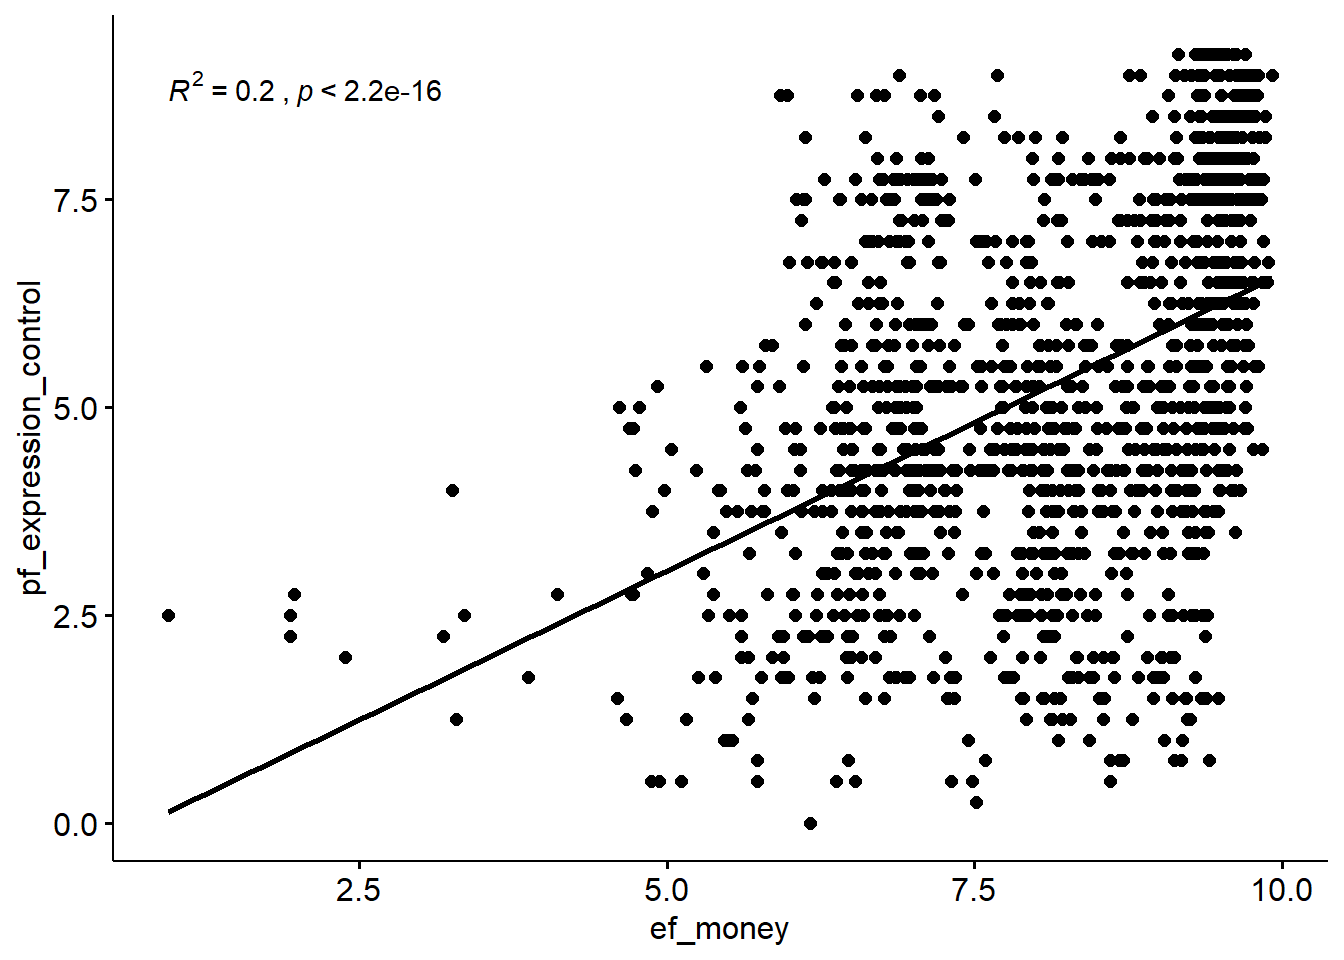
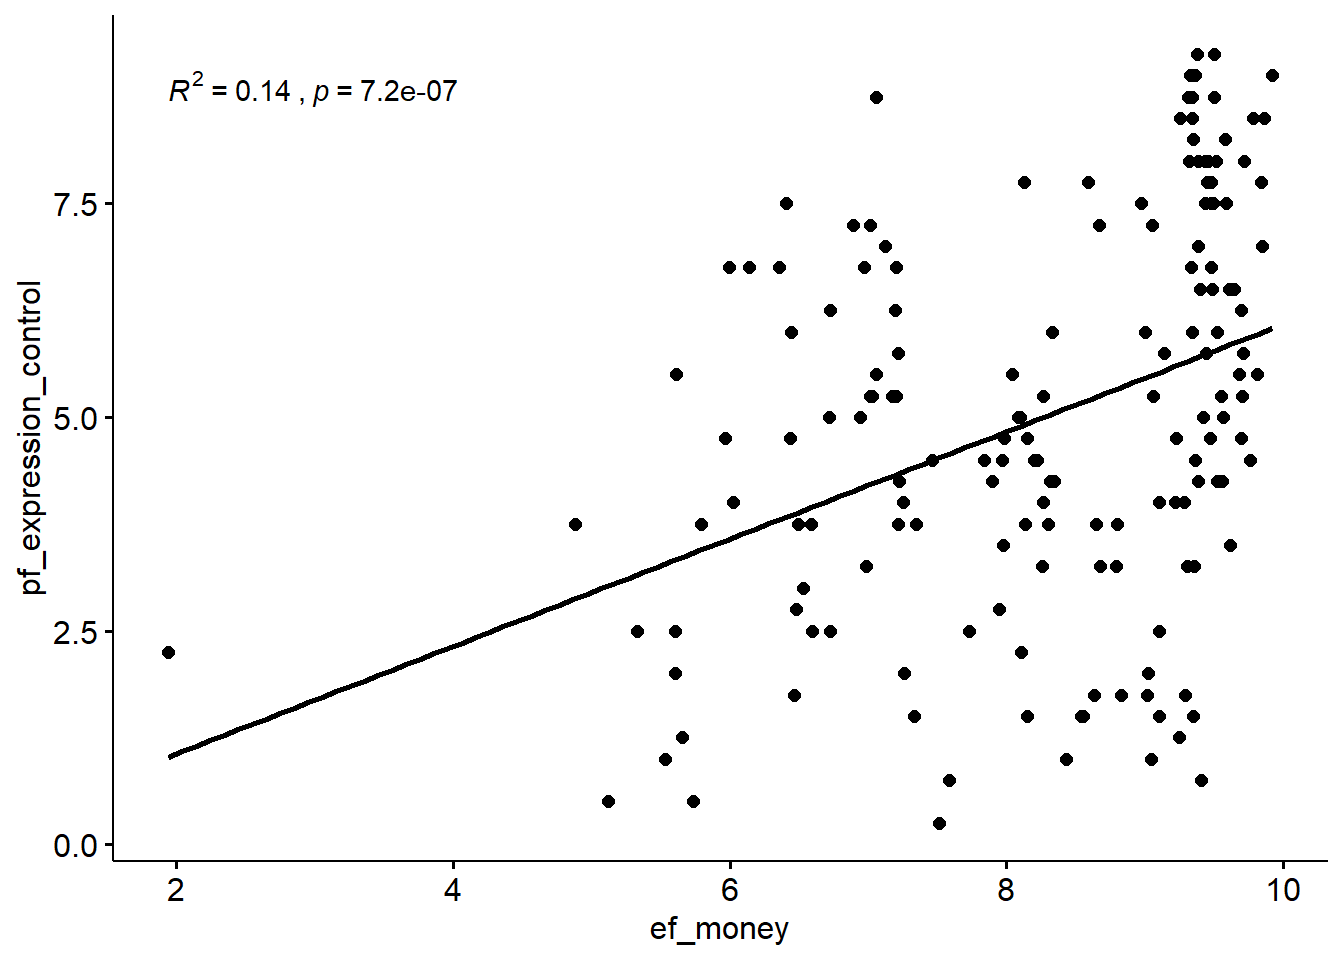
Build site.

diff --git a/docs/main.html b/docs/main.html
@@ -405,7 +405,7 @@ div.tocify {
 <div class="tab-content">
 <div id="summary" class="tab-pane fade in active">
 <p>
-<strong>Last updated:</strong> 2021-03-01
+<strong>Last updated:</strong> 2021-03-02
 </p>
 <p>
 <strong>Checks:</strong> <span class="glyphicon glyphicon-ok text-success" aria-hidden="true"></span> 7 <span class="glyphicon glyphicon-exclamation-sign text-danger" aria-hidden="true"></span> 0
@@ -496,22 +496,23 @@ This reproducible <a href="http://rmarkdown.rstudio.com">R Markdown</a> analysis
 <div class="panel panel-default">
 <div class="panel-heading">
 <p class="panel-title">
-<a data-toggle="collapse" data-parent="#workflowr-checks" href="#strongRepositoryversionstrongahrefhttpsgithubcomBastianEichmuellerassignmenttreec249f989e529616ac46e3a60ccb4e17157ea65a1targetblankc249f98a"> <span class="glyphicon glyphicon-ok text-success" aria-hidden="true"></span> <strong>Repository version:</strong> <a href="https://github.com/BastianEichmueller/assignment/tree/c249f989e529616ac46e3a60ccb4e17157ea65a1" target="_blank">c249f98</a> </a>
+<a data-toggle="collapse" data-parent="#workflowr-checks" href="#strongRepositoryversionstrongahrefhttpsgithubcomBastianEichmuellerassignmenttree733571dd404af340fc69db1d18e6db14fe256117targetblank733571da"> <span class="glyphicon glyphicon-ok text-success" aria-hidden="true"></span> <strong>Repository version:</strong> <a href="https://github.com/BastianEichmueller/assignment/tree/733571dd404af340fc69db1d18e6db14fe256117" target="_blank">733571d</a> </a>
 </p>
 </div>
[2 lines of base64/hex data omitted]
 <div class="panel-body">
 <p>
 Great! You are using Git for version control. Tracking code development and connecting the code version to the results is critical for reproducibility.
 </p>
 <p>
-The results in this page were generated with repository version <a href="https://github.com/BastianEichmueller/assignment/tree/c249f989e529616ac46e3a60ccb4e17157ea65a1" target="_blank">c249f98</a>. See the <em>Past versions</em> tab to see a history of the changes made to the R Markdown and HTML files.
+The results in this page were generated with repository version <a href="https://github.com/BastianEichmueller/assignment/tree/733571dd404af340fc69db1d18e6db14fe256117" target="_blank">733571d</a>. See the <em>Past versions</em> tab to see a history of the changes made to the R Markdown and HTML files.
 </p>
 <p>
 Note that you need to be careful to ensure that all relevant files for the analysis have been committed to Git prior to generating the results (you can use <code>wflow_publish</code> or <code>wflow_git_commit</code>). workflowr only checks the R Markdown file, but you know if there are other scripts or data files that it depends on. Below is the status of the Git repository when the results were generated:
 </p>
 <pre><code>
 Ignored files:
+    Ignored:    .Rhistory
     Ignored:    .Rproj.user/
 
 </code></pre>
@@ -551,6 +552,40 @@ Message
 </tr>
 </thead>
 <tbody>
+<tr>
+<td>
+Rmd
+</td>
+<td>
+<a href="https://github.com/BastianEichmueller/assignment/blob/733571dd404af340fc69db1d18e6db14fe256117/analysis/main.Rmd" target="_blank">733571d</a>
+</td>
+<td>
+BastianEichmueller
+</td>
+<td>
+2021-03-02
+</td>
+<td>
+wflow_publish(files = &quot;analysis/main.Rmd&quot;)
+</td>
+</tr>
+<tr>
+<td>
+html
+</td>
+<td>
+<a href="https://rawcdn.githack.com/BastianEichmueller/assignment/d84c07c1dadc39e90bde1f1d00e951801eef15f2/docs/main.html" target="_blank">d84c07c</a>
+</td>
+<td>
+BastianEichmueller
+</td>
+<td>
+2021-03-01
+</td>
+<td>
+Build site.
+</td>
+</tr>
 <tr>
 <td>
 Rmd
@@ -1086,7 +1121,7 @@ wflow_publish(files = &quot;analysis/main.Rmd&quot;)
 <pre class="r"><code>library(openintro)
 library(tidyverse)
 
-hfi_2016 &lt;- hfi %&gt;%
+hfi &lt;- hfi %&gt;%
   filter(year == 2016)</code></pre>
 <ol start="8" style="list-style-type: decimal">
 <li></li>
@@ -1118,21 +1153,21 @@ knitr::kable(
 <tbody>
 <tr class="odd">
 <td align="left">m1</td>
-<td align="right">0.3498617</td>
-<td align="right">0.5775046</td>
+<td align="right">0.3684320</td>
+<td align="right">0.6291262</td>
 </tr>
 <tr class="even">
 <td align="left">m2</td>
-<td align="right">0.2423651</td>
-<td align="right">0.7375400</td>
+<td align="right">0.2747109</td>
+<td align="right">0.7544951</td>
 </tr>
 </tbody>
 </table>
 <ol start="9" style="list-style-type: decimal">
 <li></li>
 </ol>
-<p>The slopes are <span class="math inline">\(m_1 \approx 0.35\)</span> and <span class="math inline">\(m_2 \approx 0.24\)</span>.</p>
-<p>The <span class="math inline">\(R^2\)</span> values are <span class="math inline">\(R^2_1 \approx 0.58\)</span> and <span class="math inline">\(R^2_1 \approx 0.74\)</span>.</p>
+<p>The slopes are <span class="math inline">\(m_1 \approx 0.37\)</span> and <span class="math inline">\(m_2 \approx 0.27\)</span>.</p>
+<p>The <span class="math inline">\(R^2\)</span> values are <span class="math inline">\(R^2_1 \approx 0.63\)</span> and <span class="math inline">\(R^2_1 \approx 0.75\)</span>.</p>
 <ol start="10" style="list-style-type: decimal">
 <li></li>
 </ol>
@@ -1163,17 +1198,17 @@ knitr::kable(
 <tbody>
 <tr class="odd">
 <td align="left">m3</td>
-<td align="right">0.5327067</td>
-<td align="right">0.5130908</td>
+<td align="right">0.5038764</td>
+<td align="right">0.4252422</td>
 </tr>
 <tr class="even">
 <td align="left">m4</td>
-<td align="right">0.3520102</td>
-<td align="right">0.7555412</td>
+<td align="right">0.3177051</td>
+<td align="right">0.7740638</td>
 </tr>
 </tbody>
 </table>
-<p>We can see that when adding <code>pf_expression_control</code> as an additional exposure to the model <code>hf_score ~ ef_money</code>, the slope for <code>ef_money</code> decreases from 0.53 to 0.35, and the <span class="math inline">\(R^2\)</span> value only increases from 0.51 to 0.76. This suggests that <code>ef_money</code> may be a confounder regarding the outcome <code>hf_score</code> with the additional exposure of <code>pf_expression_control</code> as the slope decreases and the <span class="math inline">\(R^2\)</span> values indicate that the variance explained by the model does not increase as much as expected when combining the variables.</p>
+<p>We can see that when adding <code>pf_expression_control</code> as an additional exposure to the model <code>hf_score ~ ef_money</code>, the slope for <code>ef_money</code> decreases from 0.5 to 0.32, and the <span class="math inline">\(R^2\)</span> value only increases from 0.43 to 0.77. This suggests that <code>ef_money</code> may be a confounder regarding the outcome <code>hf_score</code> with the additional exposure of <code>pf_expression_control</code> as the slope decreases and the <span class="math inline">\(R^2\)</span> values indicate that the variance explained by the model does not increase as much as expected when combining the variables.</p>
 <ol start="11" style="list-style-type: decimal">
 <li></li>
 </ol>
@@ -1188,19 +1223,18 @@ lm(formula = pf_expression_control ~ ef_money, data = hfi)
 
 Residuals:
     Min      1Q  Median      3Q     Max 
--5.4307 -1.4383  0.0757  1.5433  5.0585 
+-4.9646 -1.4800 -0.0326  1.8818  4.5114 
 
 Coefficients:
             Estimate Std. Error t value Pr(&gt;|t|)    
-(Intercept) -0.54735    0.32227  -1.698   0.0897 .  
-ef_money     0.71542    0.03911  18.291   &lt;2e-16 ***
+(Intercept)  -0.1945     1.0179  -0.191    0.849    
+ef_money      0.6283     0.1218   5.160 7.22e-07 ***
 ---
 Signif. codes:  0 &#39;***&#39; 0.001 &#39;**&#39; 0.01 &#39;*&#39; 0.05 &#39;.&#39; 0.1 &#39; &#39; 1
 
-Residual standard error: 1.995 on 1374 degrees of freedom
-  (82 observations deleted due to missingness)
-Multiple R-squared:  0.1958,    Adjusted R-squared:  0.1952 
-F-statistic: 334.6 on 1 and 1374 DF,  p-value: &lt; 2.2e-16</code></pre>
+Residual standard error: 2.159 on 160 degrees of freedom
+Multiple R-squared:  0.1427,    Adjusted R-squared:  0.1373 
+F-statistic: 26.63 on 1 and 160 DF,  p-value: 7.223e-07</code></pre>
 <pre class="r"><code>ggscatter(hfi, x = &quot;ef_money&quot;, y = &quot;pf_expression_control&quot;, add = &quot;reg.line&quot;) +
   stat_cor(aes(label = paste(..rr.label.., ..p.label.., sep = &quot;~`,`~&quot;)))</code></pre>
 <pre><code>`geom_smooth()` using formula &#39;y ~ x&#39;</code></pre>
